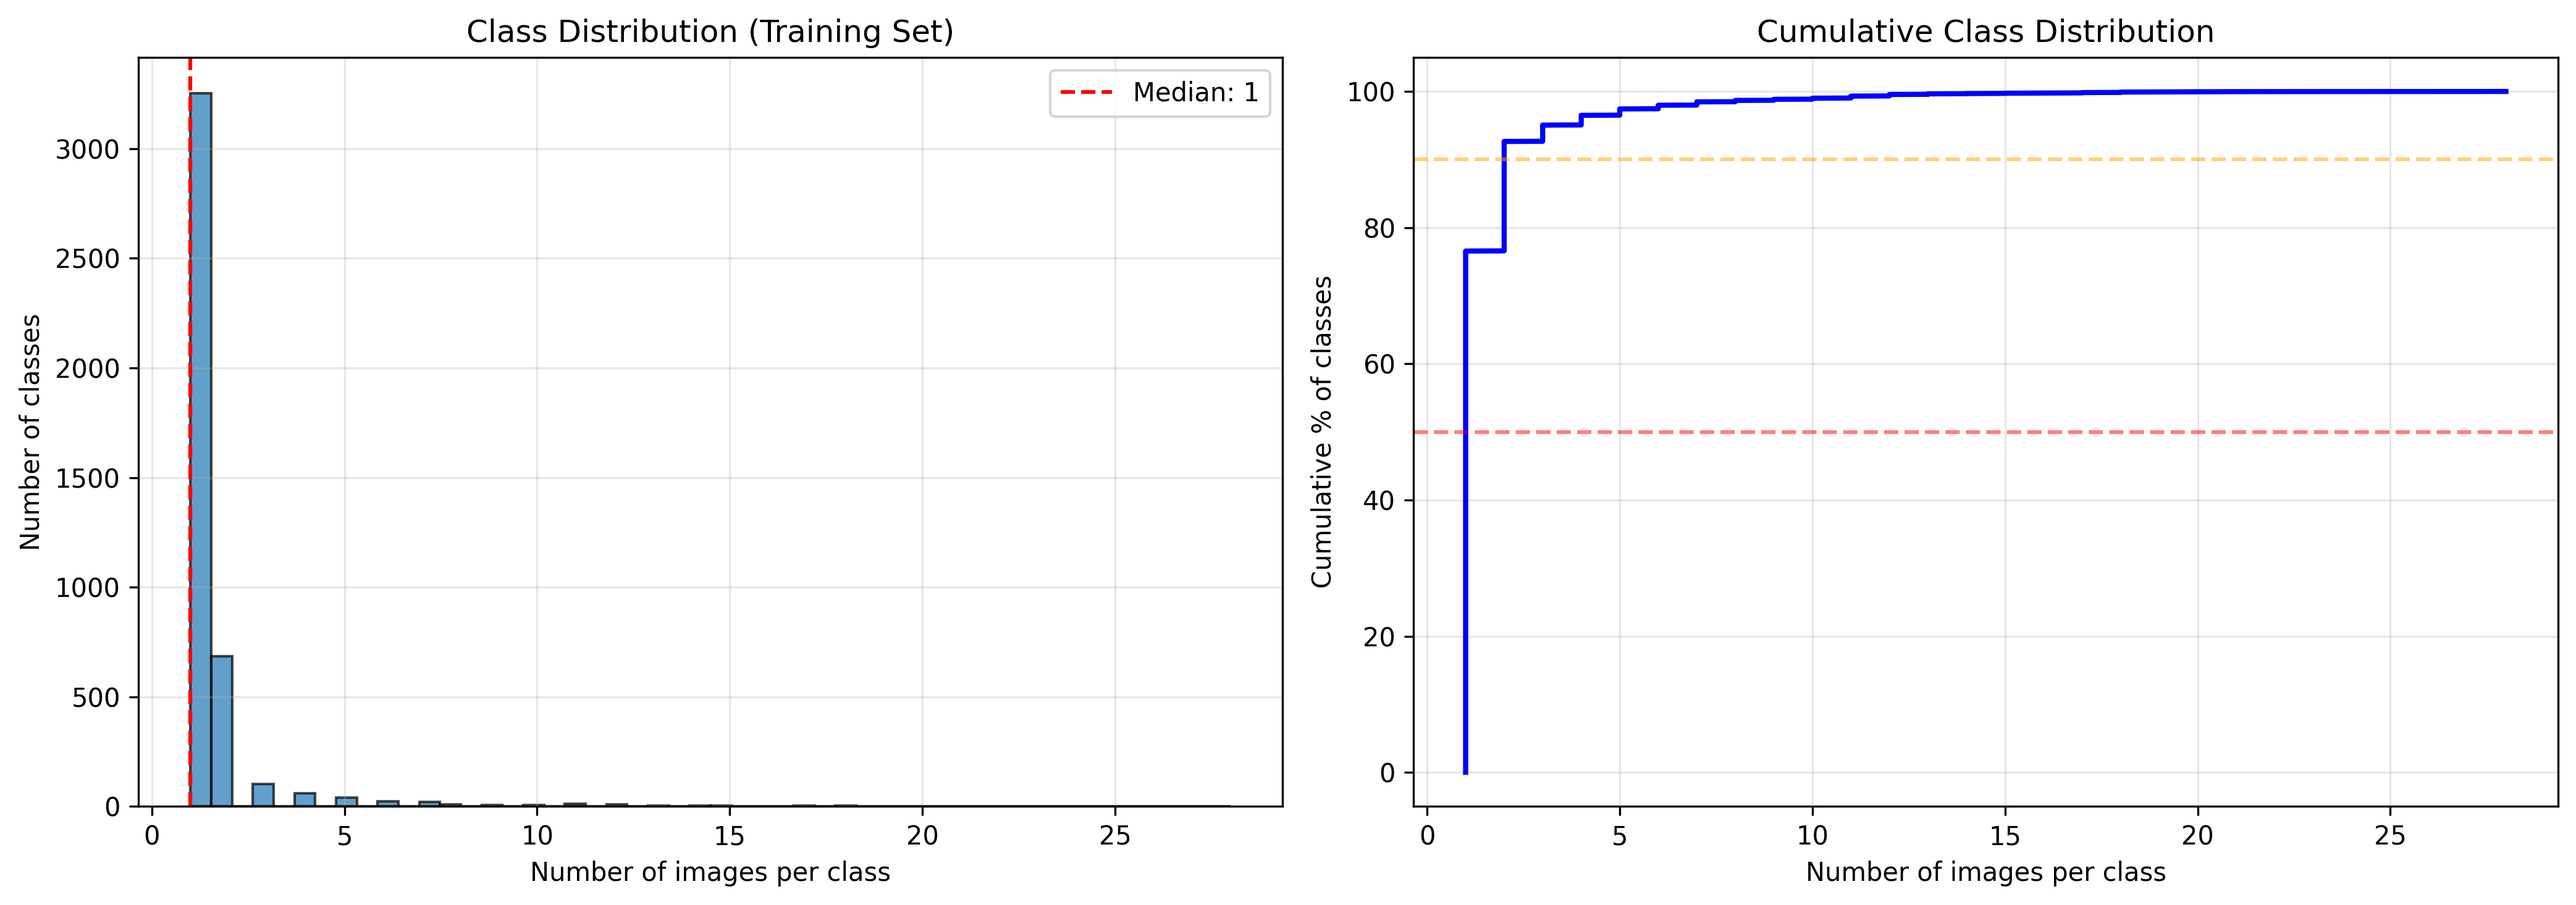
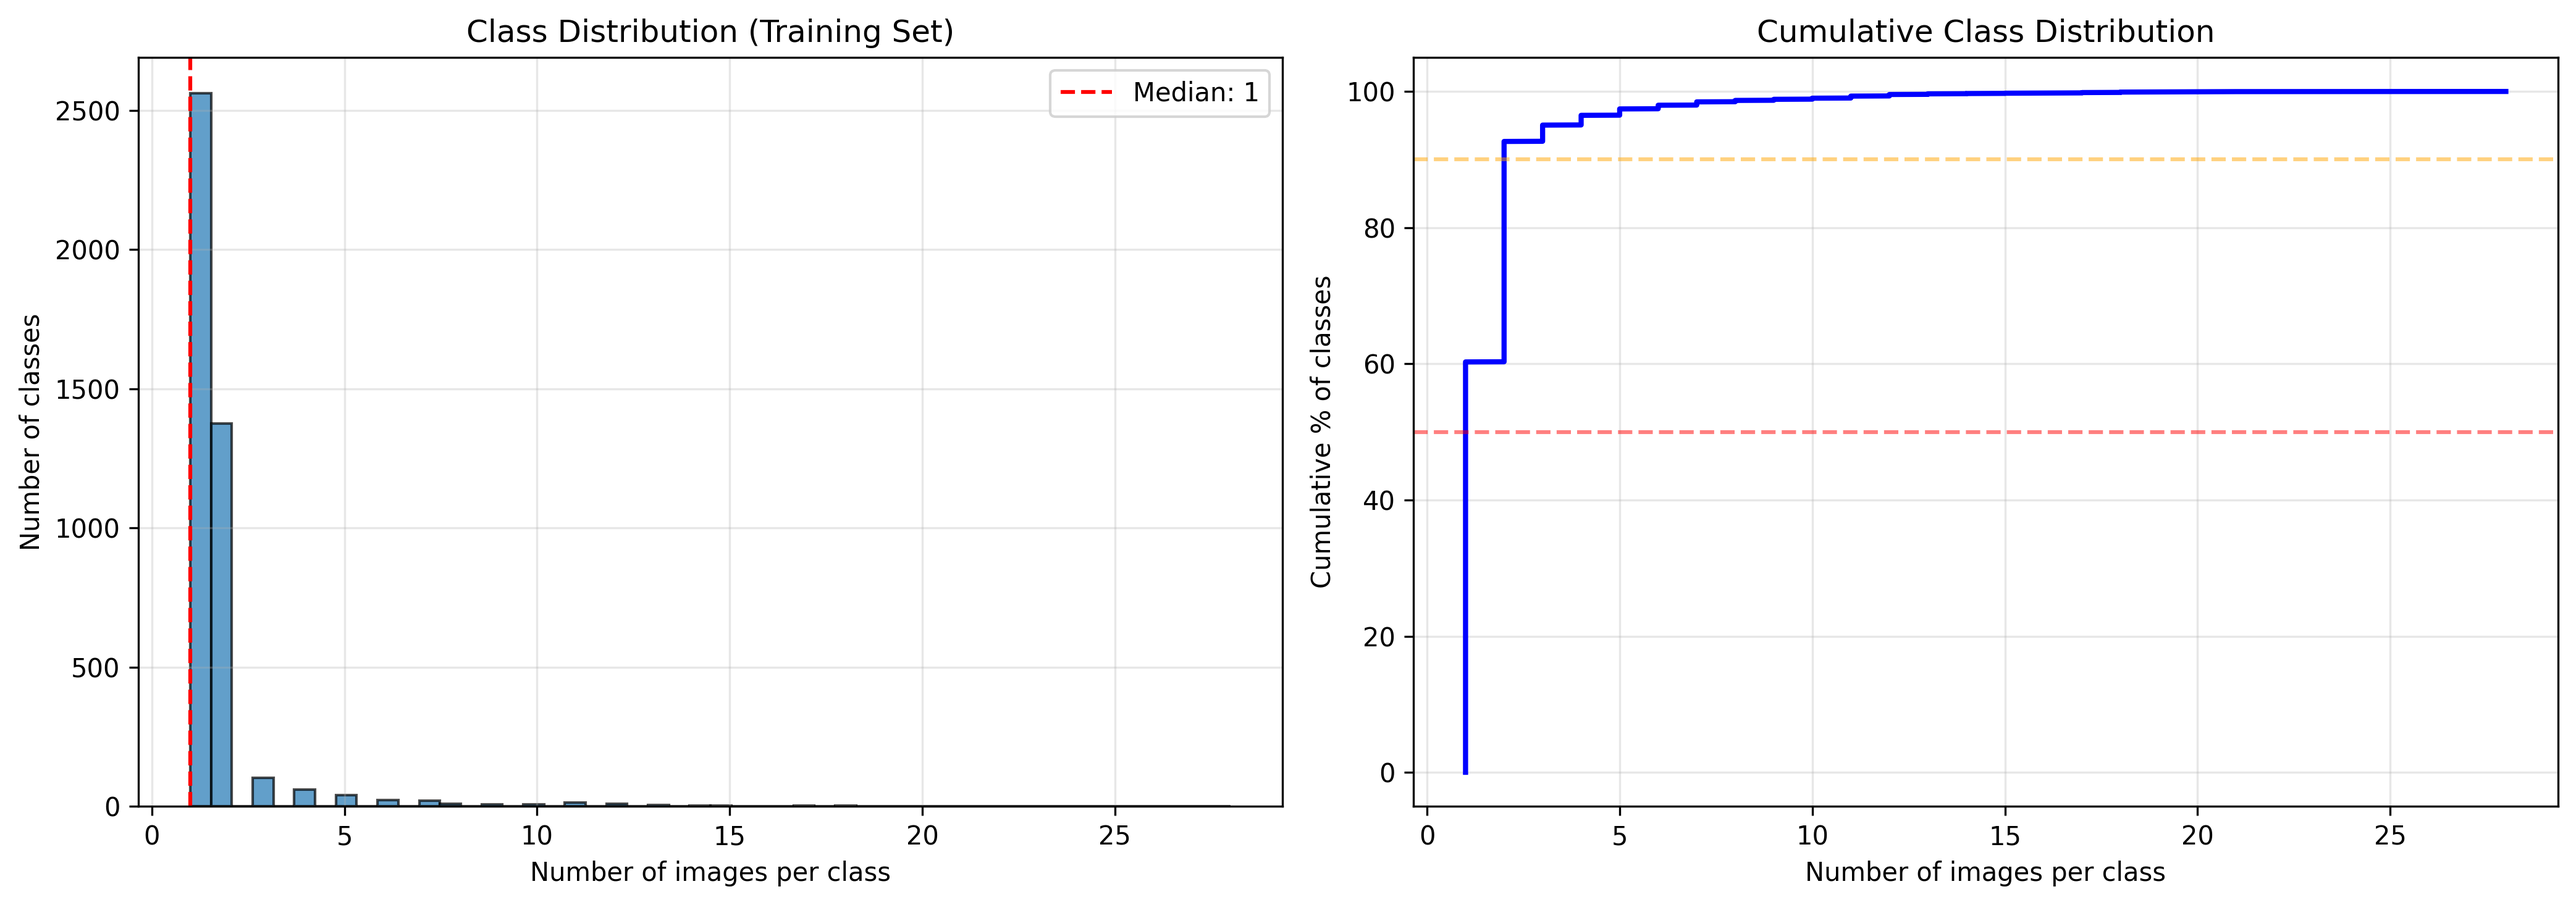
comment

diff --git a/dataset.py b/dataset.py
@@ -152,10 +152,13 @@ def split_data(df: pd.DataFrame, seed: int = 42):
         rng.shuffle(rows)
         n = len(rows)
 
+        # We do a little gambling to decide what ends up in test 
         if n == 1:
             n_test = 0
         elif n == 2:
-            n_test = 1 if rng.random() < 0.5 else 0
+            n_test = 1 if rng.random() < 0.33 else 0
+        elif n == 3:
+            n_test = 1 if rng.random() < 0.66 else 0
         else:
             n_test = max(1, round(n * 0.1))
         remaining = n - n_test
@@ -207,7 +210,6 @@ def prepare_data(config) -> Dict:
         "class_counts": class_counts,
         "num_classes": num_classes,
     }
-
 
 # ── DataLoader Construction ──────────────────────────────────────────────
 
